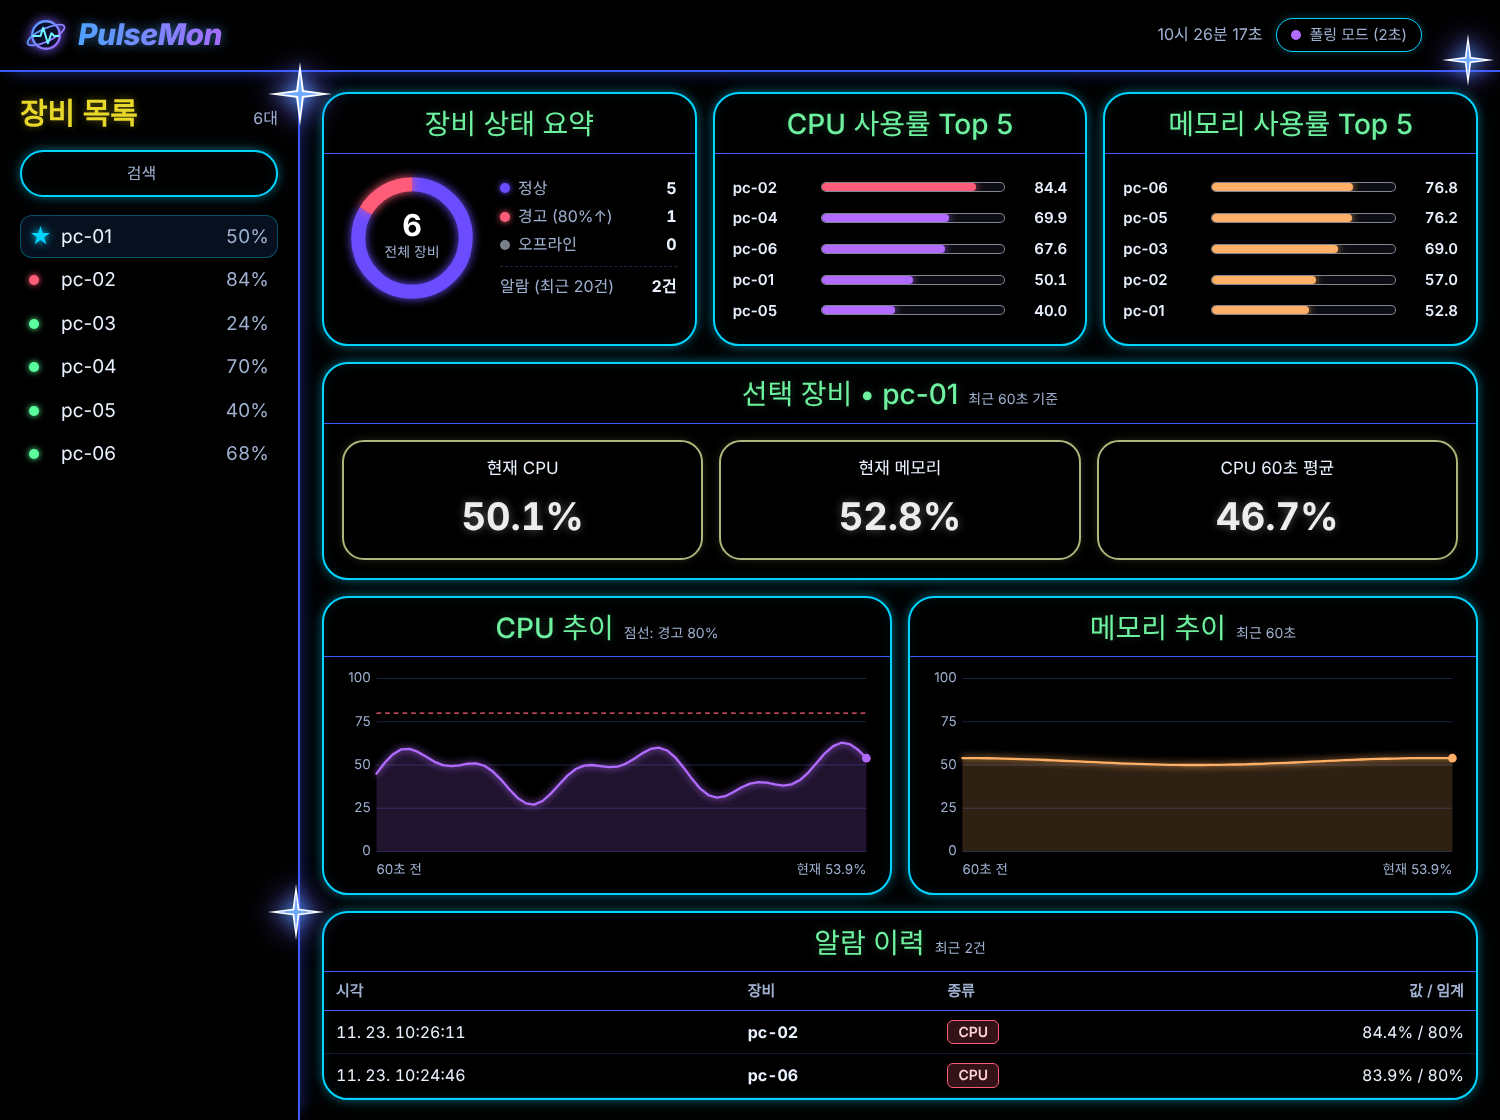
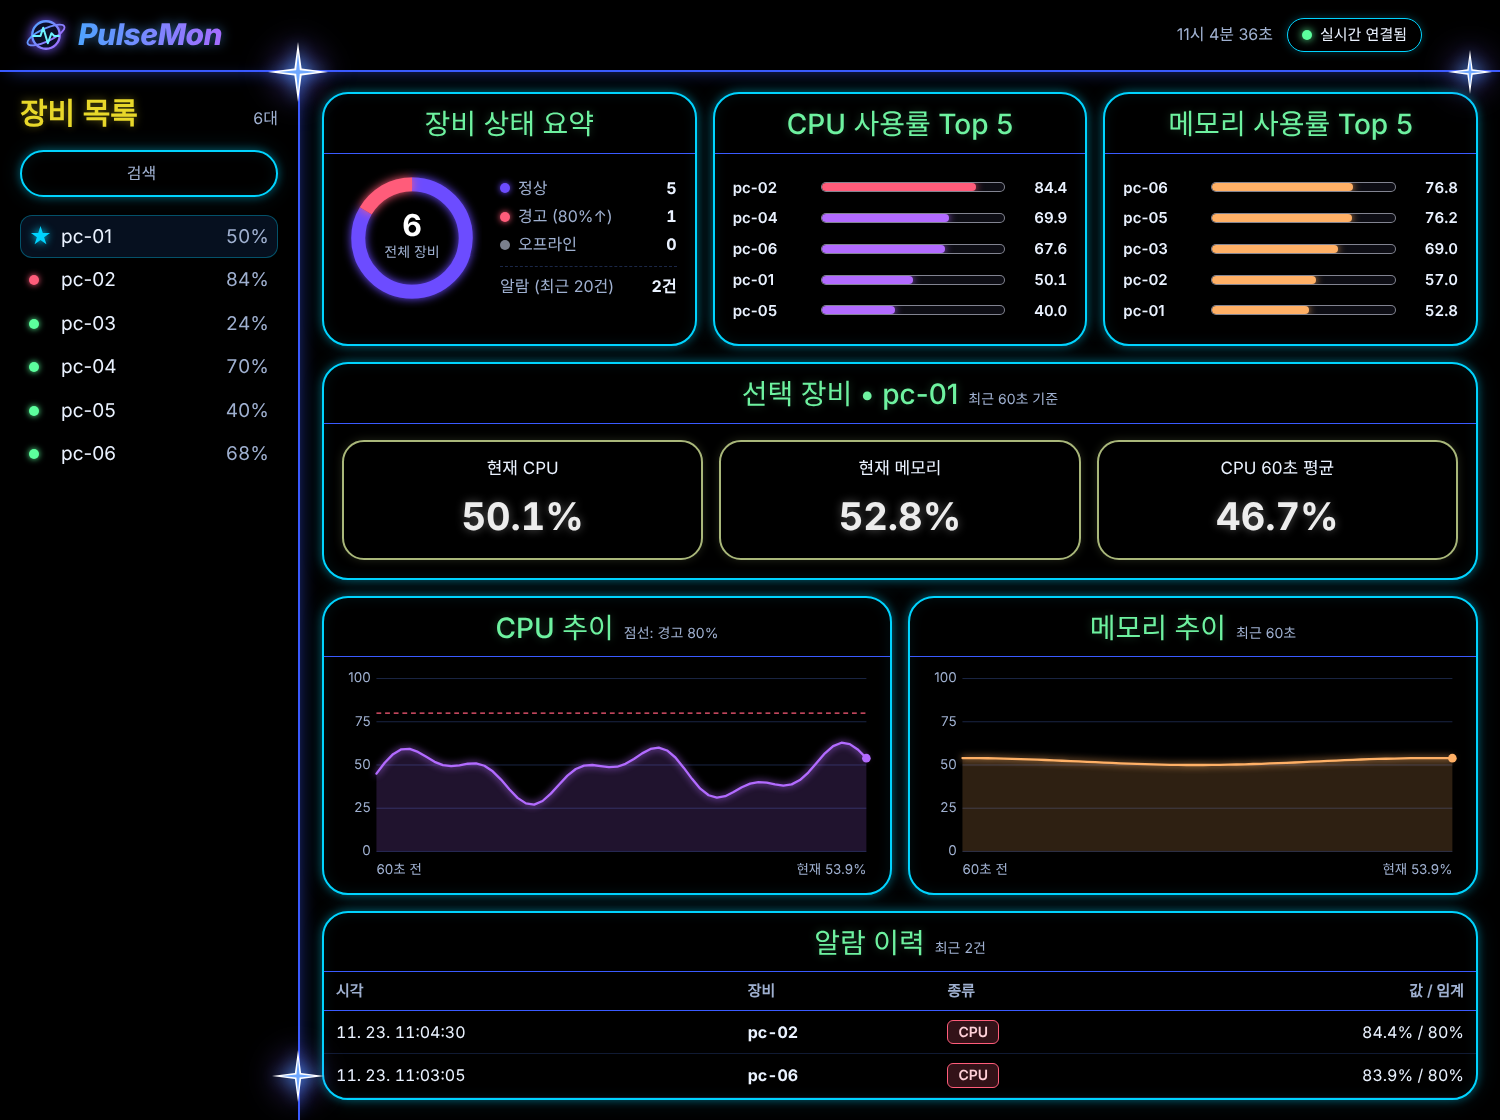
웹: 별 장식 위치 수정

diff --git a/src/Server/wwwroot/index.html b/src/Server/wwwroot/index.html
@@ -79,11 +79,11 @@ td.num,th.num{text-align:right}
 .chart-box{padding:10px 14px 14px}
 
 /* 반짝이 장식 */
-.spark{position:absolute;pointer-events:none;width:64px;height:64px;filter:drop-shadow(0 0 8px #4FA3FF) drop-shadow(0 0 16px #7A5CFF);z-index:3}
+.spark{position:absolute;pointer-events:none;width:60px;height:60px;filter:drop-shadow(0 0 8px #4FA3FF) drop-shadow(0 0 16px #7A5CFF);z-index:3}
 .spark svg{width:100%;height:100%}
-#sp1{left:calc(300px - 32px);top:62px;position:fixed}
-#sp2{right:6px;top:34px;position:fixed;width:52px;height:52px}
-#sp3{left:calc(300px - 32px);bottom:20px;position:fixed;width:56px;height:56px}
+#sp1{left:268px;top:42px}
+#sp2{right:8px;top:50px;width:44px;height:44px}
+#sp3{right:-26px;bottom:18px;width:52px;height:52px}
 
 @media(max-width:1180px){.row3{grid-template-columns:1fr 1fr}.row2{grid-template-columns:1fr}.kpis{grid-template-columns:1fr 1fr 1fr}}
 @media(max-width:800px){.app{grid-template-columns:1fr}.side{border-right:0;border-bottom:2px solid var(--line2)}.row3,.row2{grid-template-columns:1fr}.kpis{grid-template-columns:1fr}.spark{display:none}}
@@ -98,11 +98,9 @@ td.num,th.num{text-align:right}
     </symbol>
   </defs>
 </svg>
-<div class="spark" id="sp1"><svg><use href="#star"/></svg></div>
-<div class="spark" id="sp2"><svg><use href="#star"/></svg></div>
-<div class="spark" id="sp3"><svg><use href="#star"/></svg></div>
-
 <div class="topbar">
+  <div class="spark" id="sp1"><svg><use href="#star"/></svg></div>
+  <div class="spark" id="sp2"><svg><use href="#star"/></svg></div>
   <div class="logo">
     <svg viewBox="0 0 48 48" aria-hidden="true">
       <defs><linearGradient id="lg" x1="0" y1="0" x2="1" y2="1"><stop offset="0" stop-color="#4FA3FF"/><stop offset="1" stop-color="#A56CFF"/></linearGradient></defs>
@@ -116,6 +114,7 @@ td.num,th.num{text-align:right}
 </div>
 <div class="app">
   <aside class="side">
+    <div class="spark" id="sp3"><svg><use href="#star"/></svg></div>
     <h3>장비 목록 <span id="side-count"></span></h3>
     <input id="q" type="search" placeholder="검색" aria-label="장비 이름 검색">
     <div id="side-list"></div>
